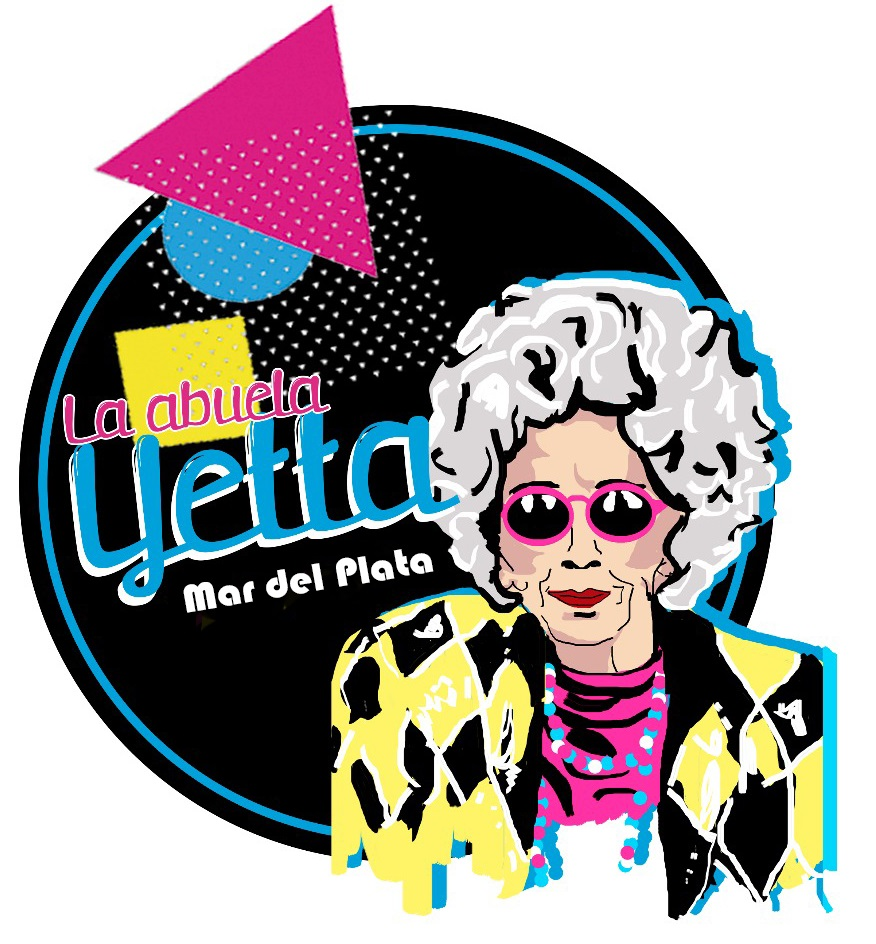
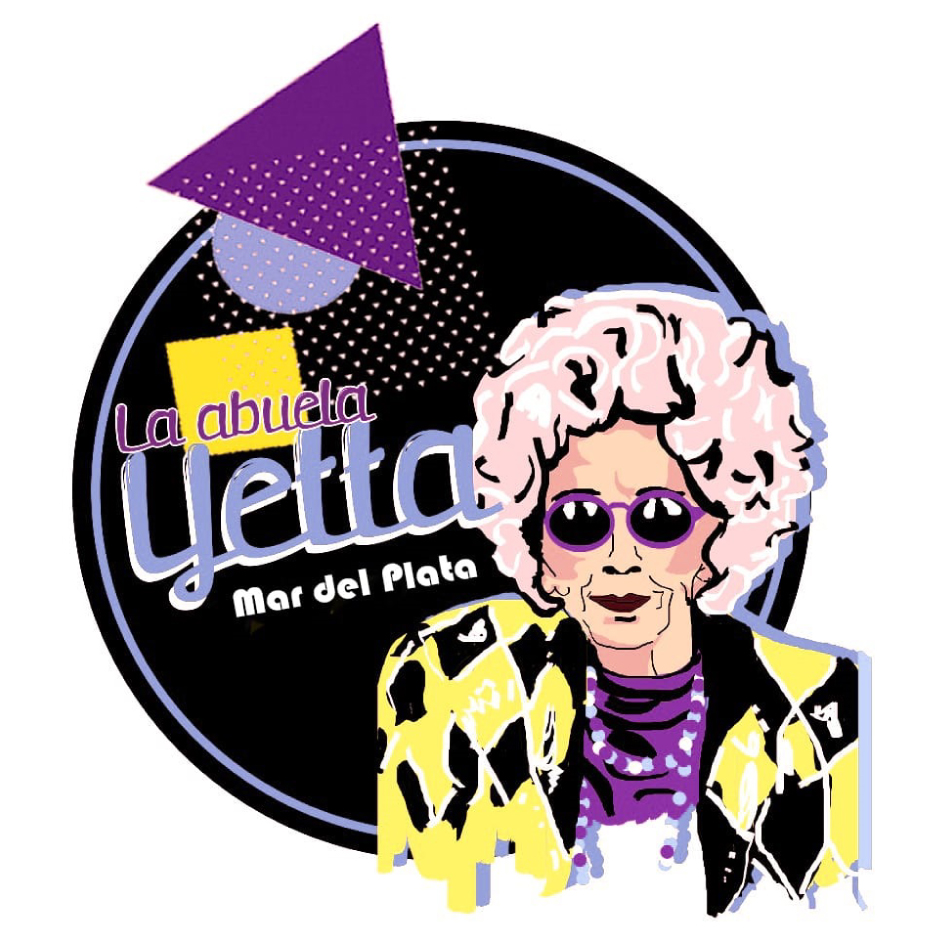
cambios de paleta y sumar mapa

diff --git a/assets/css/main.css b/assets/css/main.css
@@ -1581,7 +1581,7 @@ img {
 }
 
 .menu_block {
-  background-color: #ffffff;
+  background-color: #000;
   min-height: 100vh;
   padding: 0;
 }
@@ -1638,16 +1638,17 @@ img {
   display: inline-block;
   padding: 12px 25px 12px 50px;
   background-color: transparent;
-  color: #000000;
+  color: #fff;
 }
 .menu_nav li a:hover {
-  background-color: #efe228;
+  background-color: #ffe42b;
+  color:#000;
 }
 .menu_nav li a:focus {
-  background-color: #99896e;
+  background-color: #ffe42b;
 }
 .menu_nav li.active a {
-  background-color: #d91b7f;
+  background-color: #6d1d80;
   color: #ffffff;
 }
 .menu_nav .sub-menu {
@@ -1683,14 +1684,14 @@ img {
   display: inline-block;
   padding: 8px 15px 8px 50px;
   text-transform: capitalize;
-  color: #000000;
+  color: #fff;
 }
 .filter_nav li a:hover {
   background-color: #efe228;
-  color: #ffffff;
+  color: #000;
 }
 .filter_nav li.active a {
-  background-color: #d91b7f;
+  background-color: #6d1d80;
   color: #ffffff;
 }
 
@@ -1747,7 +1748,7 @@ img {
 3 body
 -------------------------------------------------------- */
 .body_block {
-  background-color: #029ed6;
+  background-color: #959fd8;
   padding: 50px 30px;
 }
 

diff --git a/contact.html b/contact.html
@@ -44,7 +44,7 @@
             <!--logo -->
             <div class="logo_box">
                 <a href="index.html">
-                    <img src="img/perfil.jpg" alt="Abuela Yetta">
+                    <img src="img/perfil.png" alt="Abuela Yetta">
                 </a>
             </div>
             <!--logo end-->
@@ -199,7 +199,7 @@
                         </div>
                         <div class="col-md-6 col-5 img_section" style="background-color:#000;">
                             <!--map -->
-                            <div id="map" data-lon="24.036176" data-lat=" 57.039986" class="map"></div>
+                            <div class="map"><iframe width="100%" height="100%" frameborder="0" scrolling="no" marginheight="0" marginwidth="0" src="https://maps.google.com/maps?width=100%25&amp;height=600&amp;hl=es&amp;q=Saavedra%203246,%20Mar%20del%20plata,%20Buenos%20aires,%20Argentina+(Abuela%20Yetta)&amp;t=&amp;z=14&amp;ie=UTF8&amp;iwloc=B&amp;output=embed"><a href="https://www.gps.ie/car-satnav-gps/">GPS devices</a></iframe></div>
                             <!--map end-->
                         </div>
                     </div>

diff --git a/portfolio.html b/portfolio.html
@@ -44,7 +44,7 @@
             <!--logo -->
             <div class="logo_box">
                 <a href="index.html">
-                    <img src="img/perfil.jpg" alt="Abuela Yetta">
+                    <img src="img/perfil.png" alt="Abuela Yetta">
                 </a>
             </div>
             <!--logo end-->

diff --git a/services.html b/services.html
@@ -48,7 +48,7 @@
             <!--logo -->
             <div class="logo_box">
                 <a href="index.html">
-                    <img src="img/perfil.jpg" alt="Abuela Yetta">
+                    <img src="img/perfil.png" alt="Abuela Yetta">
                 </a>
             </div>
             <!--logo end-->

diff --git a/about.html b/about.html
@@ -44,7 +44,7 @@
             <!--logo -->
             <div class="logo_box">
                 <a href="index.html">
-                    <img src="img/perfil.jpg" alt="Abuela Yetta">
+                    <img src="img/perfil.png" alt="Abuela">
                 </a>
             </div>
             <!--logo end-->

diff --git a/index.html b/index.html
@@ -44,7 +44,7 @@
             <!--logo -->
             <div class="logo_box">
                 <a href="index.html">
-                    <img src="img/perfil.jpg" alt="Abuela">
+                    <img src="img/perfil.png" alt="Abuela">
                 </a>
             </div>
             <!--logo end-->
